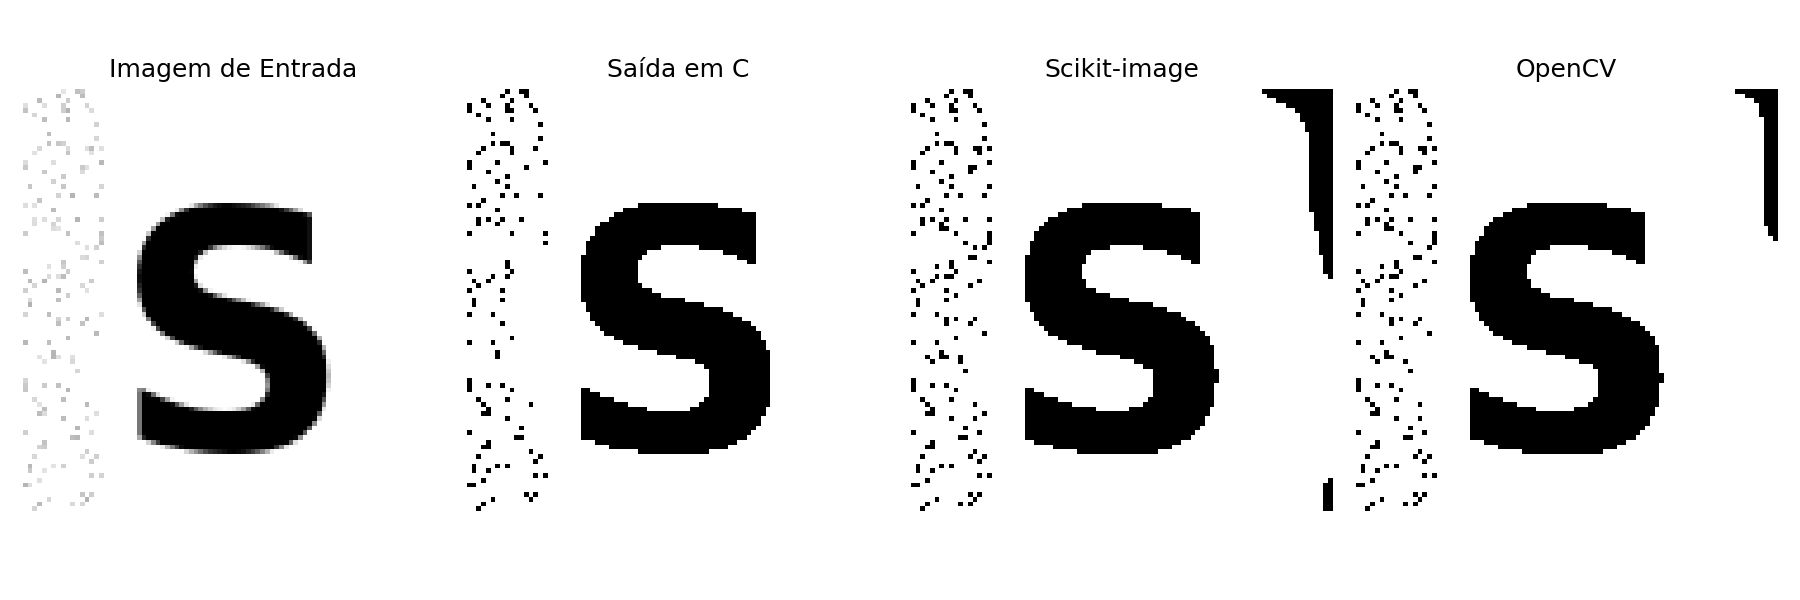
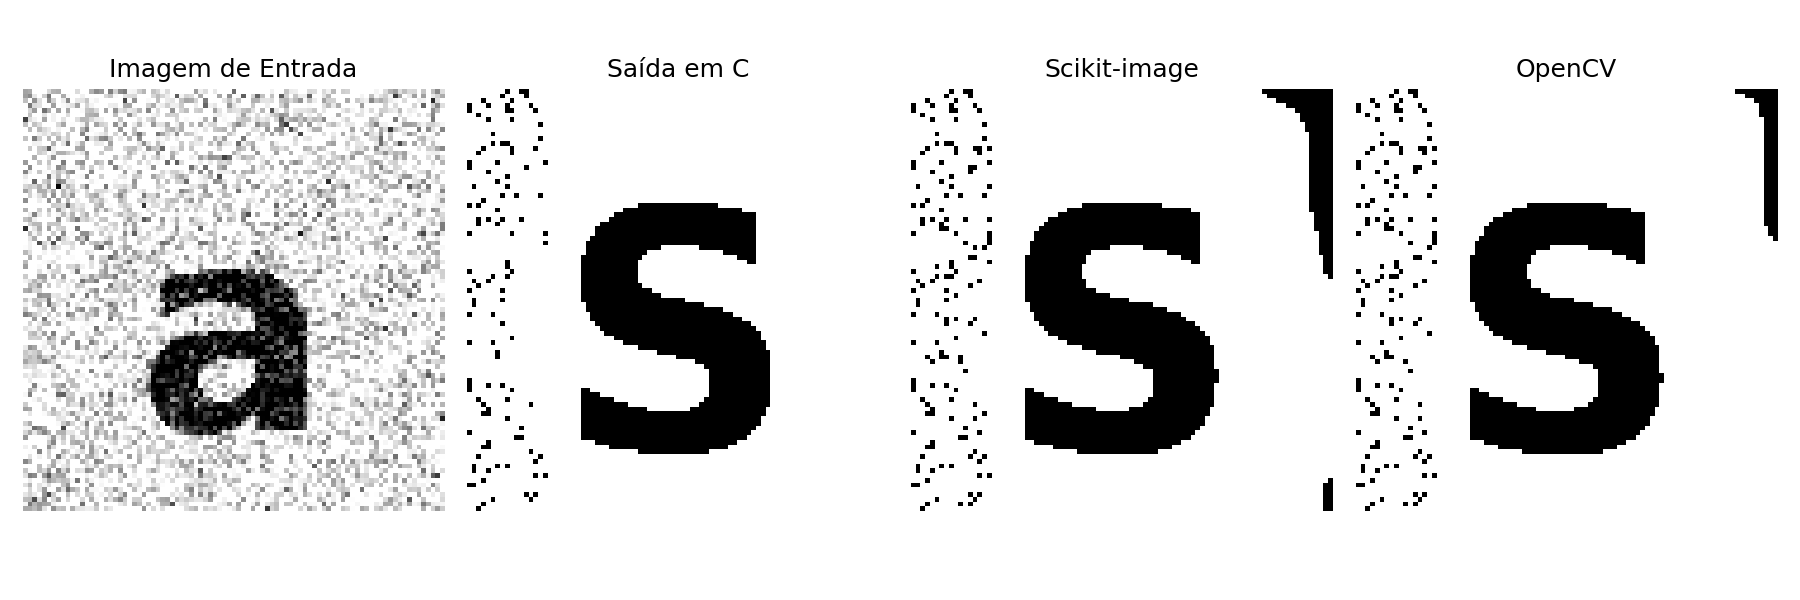
mapa de diferencas entre as bibliotecas

Changed region(s): [[0.0, 0.15, 0.2489, 0.87]]

diff --git a/niblack/show_pgm.py b/niblack/show_pgm.py
@@ -19,7 +19,7 @@ def read_pgm(fn):
 
 #código principal para comparar visualmente as saídas
 if __name__ == "__main__":
-    in_img  = read_pgm('test_input.pgm')   #imagem original
+    in_img  = read_pgm('test_image.pgm')   #imagem original
     out_c   = read_pgm('out_c.pgm')                           #saída em C
     out_py  = read_pgm('out_python_sk.pgm')                      #saída com Scikit-image
     out_cv  = read_pgm('out_python_cv.pgm')                      #saída com OpenCV
